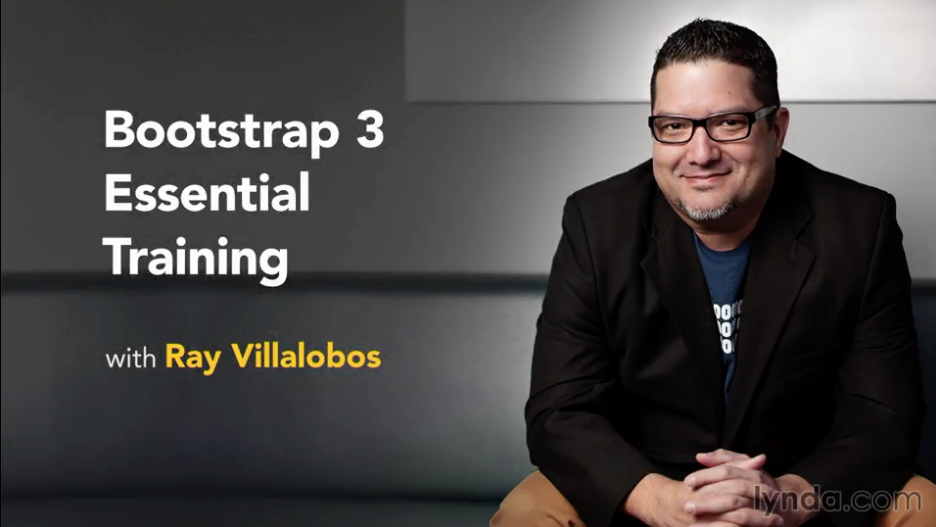
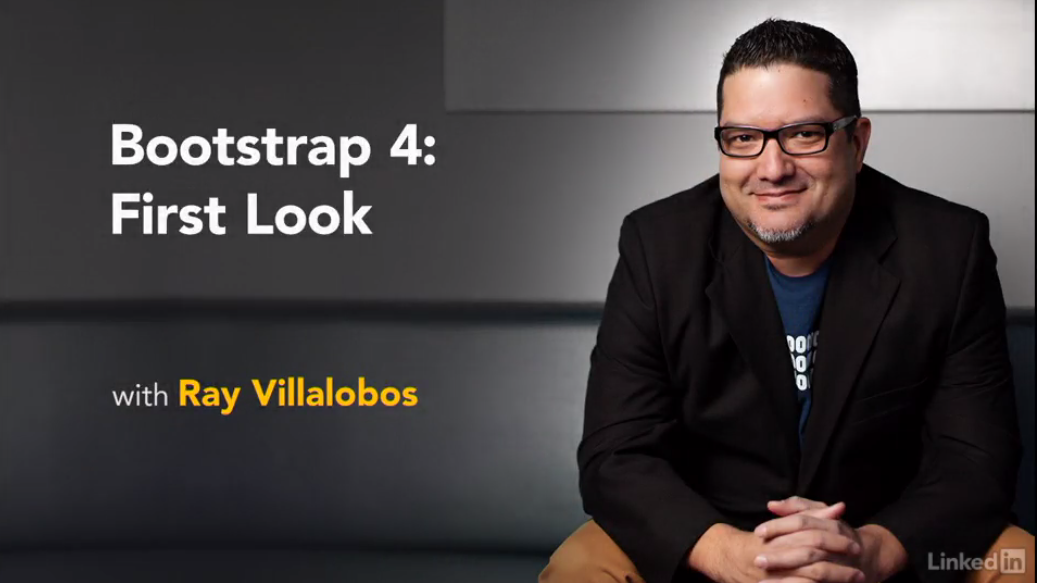
changes to readme file

diff --git a/README.md b/README.md
@@ -1,9 +1,18 @@
-[![Bootstrap 4: First Look](hero.png)]()
+[![Bootstrap 4: First Look](hero.png)](http://www.lynda.com/Bootstrap-tutorials/Bootstrap-4-First-Look/372547-2.html)
 
 # Bootstrap 4: First Look
-This is the repository for my course, [Bootstrap 4: First Look](). The full course is available at [lynda.com](http://lynda.com).
+This is the repository for my course, [Bootstrap 4: First Look](http://www.lynda.com/Bootstrap-tutorials/Bootstrap-4-First-Look/372547-2.html). The full course is available at [lynda.com](http://lynda.com).
 - [My Personal Website](http://raybo.org)
 
+## Description
+Bootstrap 4 is here, and it's an important update that touches nearly every line of code. Get your first look at the changes in this popular responsive design platform. Our resident Bootstrap expert Ray Villalobos covers Reboot.css, which standardizes a lot of the CSS in Bootstrap 4; the new card components; and changes to the grid, forms, and tables in Bootstrap. Plus, find out how to compensate for the deprecation of Glyphicons and adjust to smaller changes throughout the platform. These tips will help you avoid some of the pitfalls when it comes to upgrading your own site from Bootstrap 3—and get excited about what's to come.
+
+### Topics include:
+- Installing the upgrade
+- Using Reboot.css
+- Using the new grid
+- Working with new navigation and card components
+- Understanding table and form changes
 
 ## Instructions
 This repository has branches for each of the videos in the course. You can use the branch pop up menu in github to switch to a specific branch and take a look at the course at that stage. Or you can simply add `/tree/BRANCH_NAME` to the URL to go to the branch you want to peek at.
